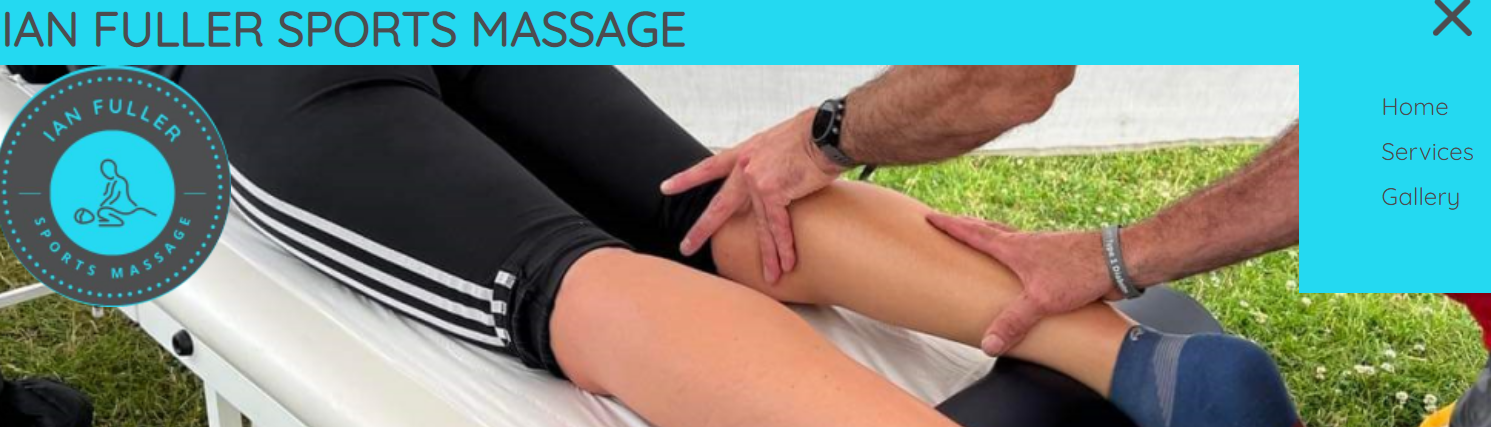
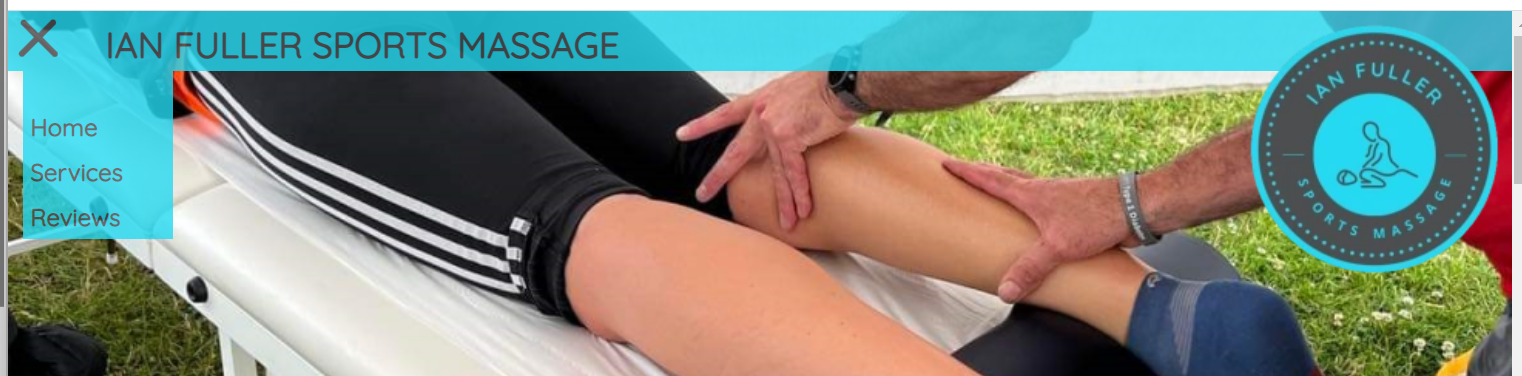
Doc > Update readme details of site header due to layout changes since documenting

diff --git a/README.md b/README.md
@@ -1,6 +1,6 @@
 # Portfolio Project 1 - Cheryl Phillips - "Ian Fuller Sports Massage"
 
-![Preview of homepage](testing/preview.png)
+![Preview of homepage](documentation/testing/preview.png)
 
 ## Concept
 
@@ -59,21 +59,21 @@ The final header design agreed on with the customer has a smaller top bar with t
 
 ![Image of mobile header](documentation/testing/mobile_header.png)
 
-The mobile version of the site header and nav bar is viewed on devices 600px or less. This features responsive sizing for the ``<h1>`` element using ``vw`` as the unit of measurement. It displays a different png file for the banner image which is thinner to occupy less space on the screen and a smaller sized logo. The hamburger menu is used to ensure navigation does not occupy valuable screen space and detract from the site content. 
+The mobile version of the site header and nav bar is viewed on devices 600px or less. This used the ``mobile hide`` class in the stylesheet so that the ``<h1>`` title is not displayed on the small screen width. It displays a different image file for the main banner picture which is thinner to occupy less space on the screen and a smaller sized logo. The hamburger menu is used to ensure navigation does not occupy valuable screen space and detract from the site content. 
 
 **Tablet Header**
 
 ![Image of tablet header](documentation/testing/tablet_header.png)
 
-The tablet version of the site header and nav bar is viewed on devices between 600px and 992px. This reverts to standard sizing for the ``<h1>`` element and uses a larger banner image to take advantage of a bigger screen size. The logo displayed is still the smaller version to account for the portrait viewing width. Hamburger nav menu is maintained for consistency and clean design. 
+The tablet version of the site header and nav bar is viewed on devices between 600px and 992px. This reverts to standard display of the ``<h1>`` element and uses a larger banner image to take advantage of a bigger screen size. The logo displayed increases in size to take advantage of the screen size increase. Hamburger nav menu is maintained for consistency and clean design. 
 
 **Desktop Header**
 
 ![Image of desktop header](documentation/testing/desktop_header.png)
-The desktop version of the site header and nav bar is viewed on any screen wider than 992px. This takes advantage of the banner image in full and the original sized logo image. I have maintained the hamburger nav menu for consistency across the site and after viewing a range of websites with them in use on their desktop version it provides an uncluttered viewing area for the site content. 
+The desktop version of the site header is viewed on any screen wider than 992px. This takes advantage of the banner image in full and the original sized logo image. I have maintained the hamburger nav menu for consistency across the site and after viewing a range of websites with them in use on their desktop version it provides an uncluttered viewing area for the site content. 
 
 ### Footer Design
-Footer Design was completed next as it is consistent across all pages. This will enable me to clone the index page when creating further pages minimising repetitive work and ensuring consistency. It's main feature is to finish off the overall containment of the main content, and has links to social media and professional memberships related to the business. These links open in a new browser window. 
+Footer Design was completed next as it is consistent across all pages. This enabled me to clone the index page when creating further pages minimising repetitive work and ensuring consistency. It's main feature is to finish off the overall containment of the main content, and has links to social media and professional memberships related to the business. These links open in a new browser window. 
 
 The footer sticks to the bottom of the viewing screen for asthetics, courtesy of code from Clever Sticky Footer - see credits.
 
